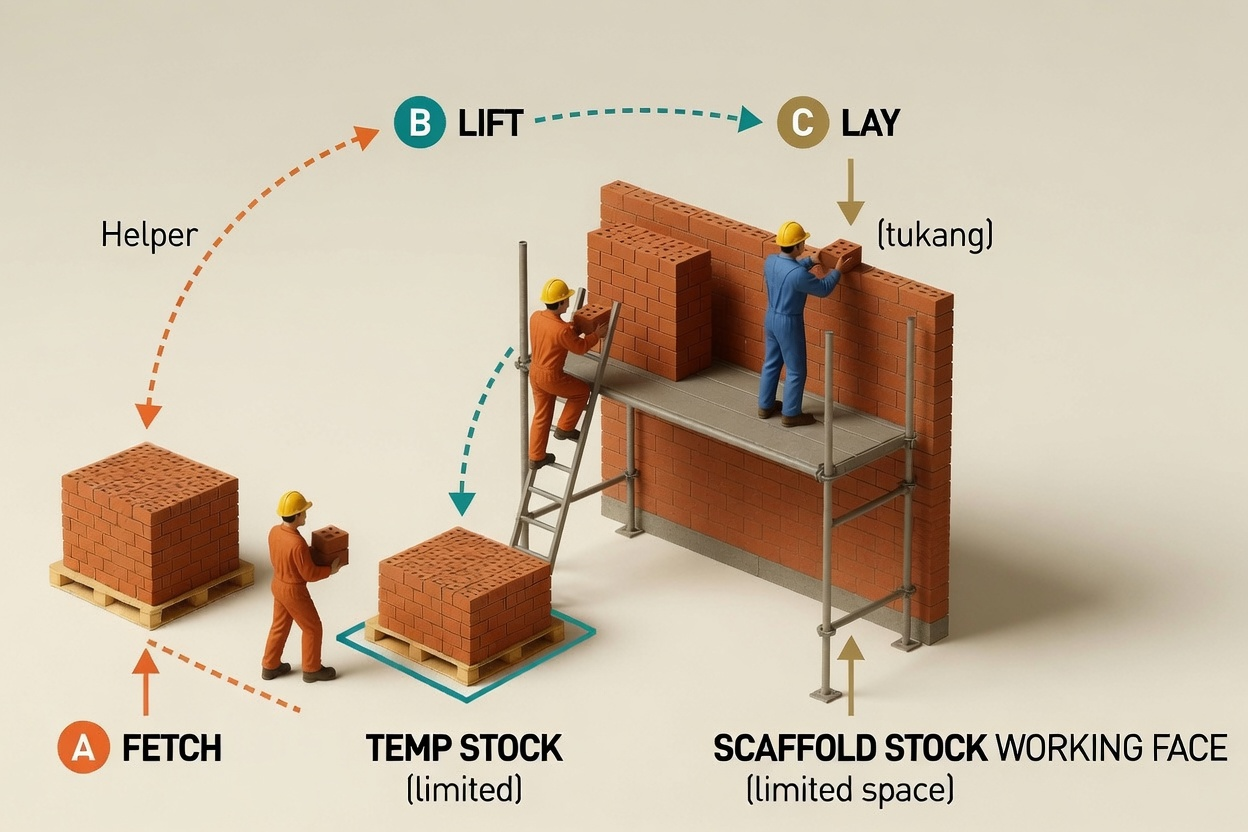
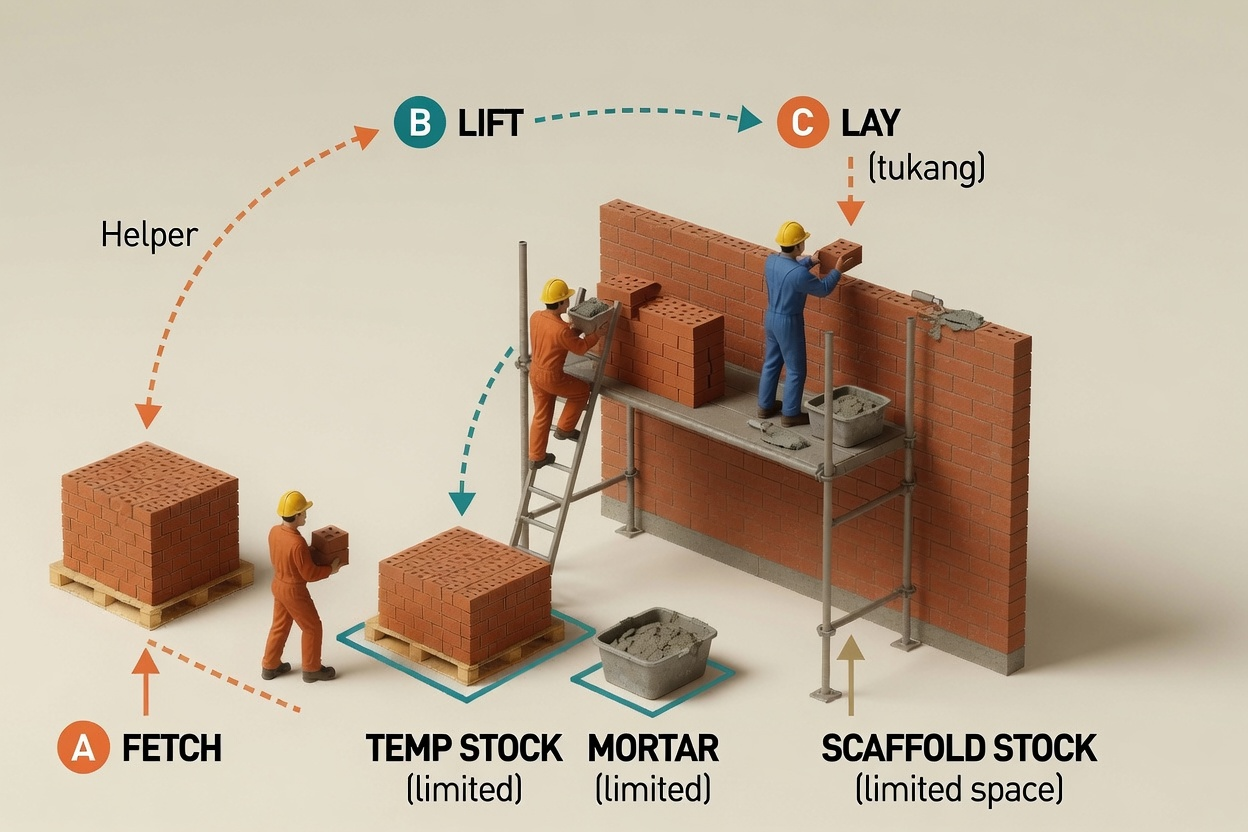
Bricklaying illust: add limited mortar boxes, lower wall at scaffold, helper lifts plaster

diff --git a/src/components/simkon/BricklayingPanel.tsx b/src/components/simkon/BricklayingPanel.tsx
@@ -141,10 +141,9 @@ export function BricklayingPanel() {
               className="mx-auto max-h-64 w-full object-contain object-center p-2 sm:max-h-80"
             />
             <figcaption className="border-t border-border px-3 py-2 text-[11px] leading-relaxed text-muted-foreground sm:text-xs">
-              <strong className="text-foreground">A Fetch</strong> pile→temp ·{" "}
-              <strong className="text-foreground">B Lift</strong> temp→scaffold ·{" "}
-              <strong className="text-foreground">C Lay</strong> tukang pasang. Temp &
-              scaffold kapasitas terbatas.
+              <strong className="text-foreground">A Fetch</strong> bata + mortar → stock terbatas ·{" "}
+              <strong className="text-foreground">B Lift</strong> naik scaffold ·{" "}
+              <strong className="text-foreground">C Lay</strong> tukang pasang. Mortar box & scaffold stock terbatas.
             </figcaption>
           </figure>
           <div className="grid gap-2 sm:grid-cols-3">

diff --git a/src/lib/simkon/operations.ts b/src/lib/simkon/operations.ts
@@ -182,7 +182,7 @@ export const OPERATIONS: OperationInfo[] = [
     },
     illustration: "/illustrations/bricklaying-cycle.jpg",
     illustrationCaption:
-      "Triple-cycle: A Helper fetch → temp stock (limited) · B Helper lift → scaffold stock (limited space) · C Tukang lay.",
+      "Triple-cycle: A Helper fetch bata+mortar → temp/mortar stock (limited) · B Helper lift ke scaffold · C Tukang lay.",
   },
   {
     id: "concreting",
